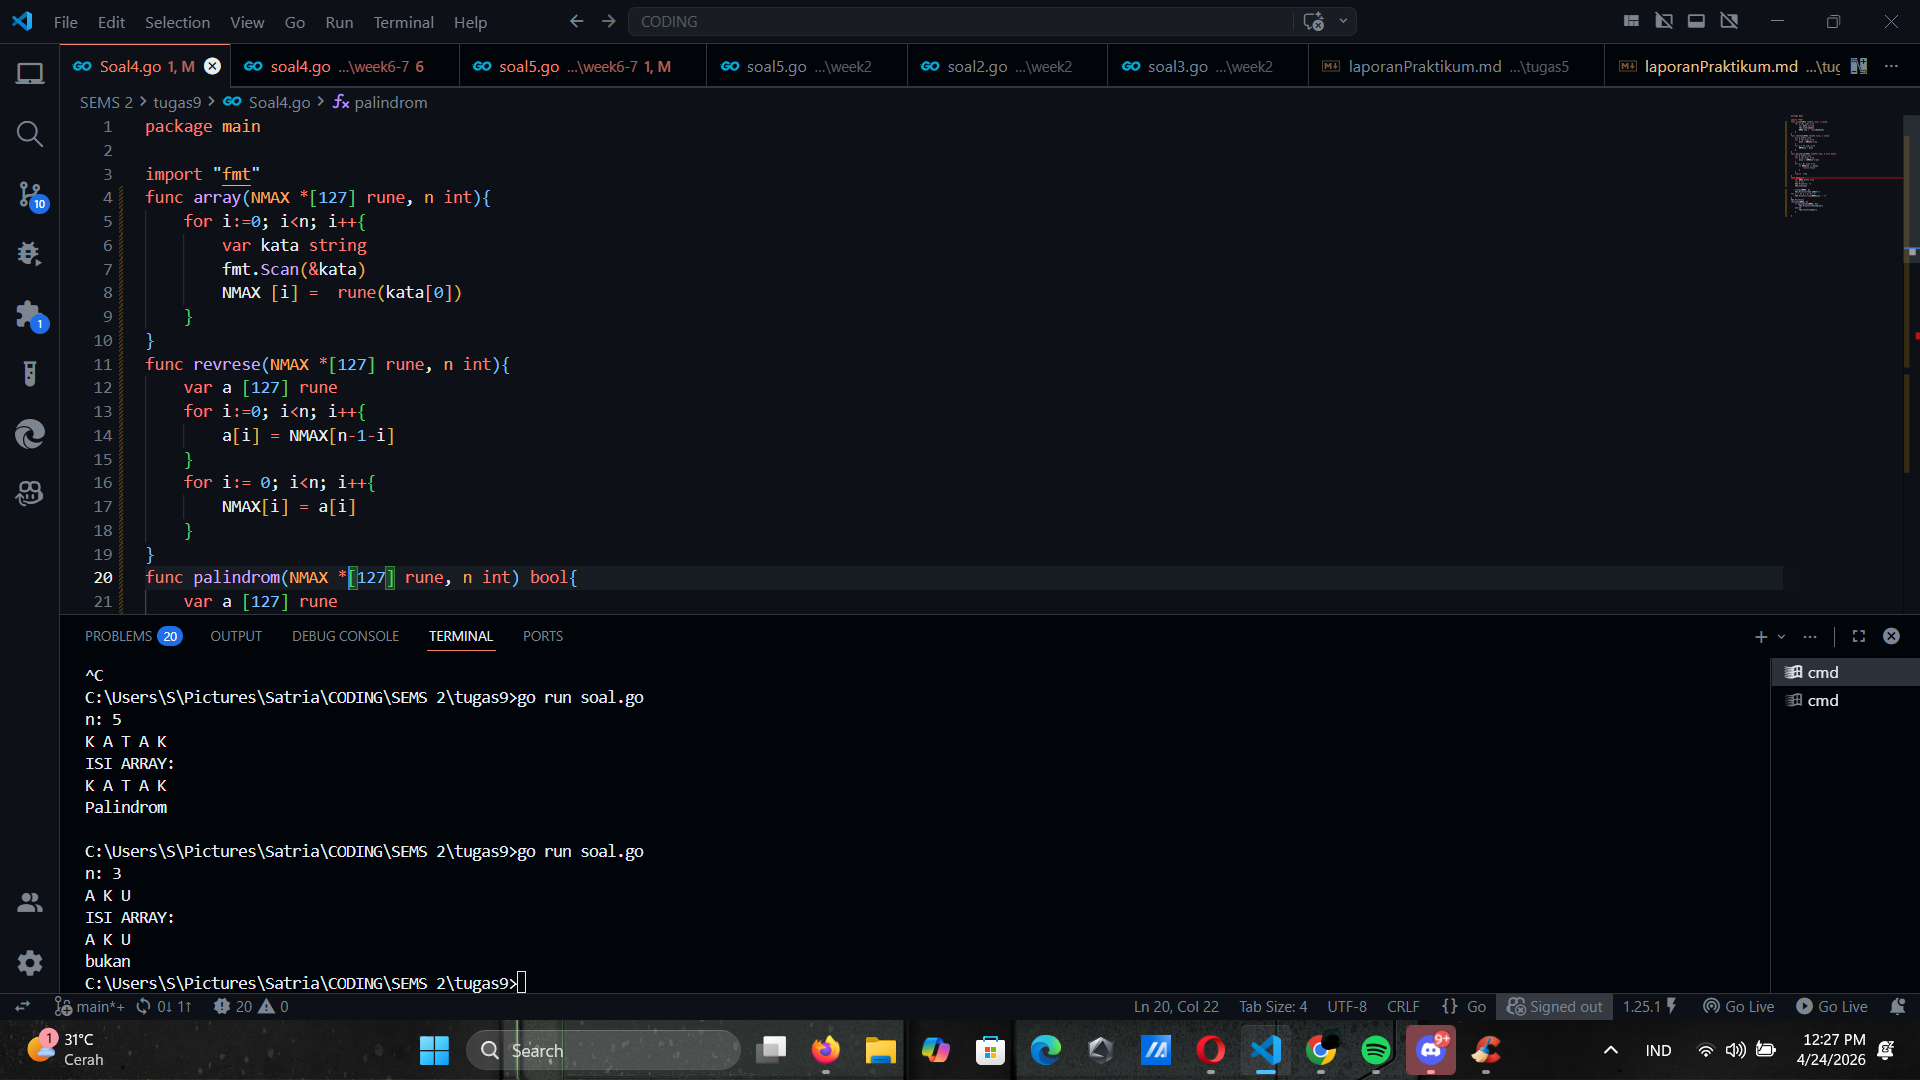
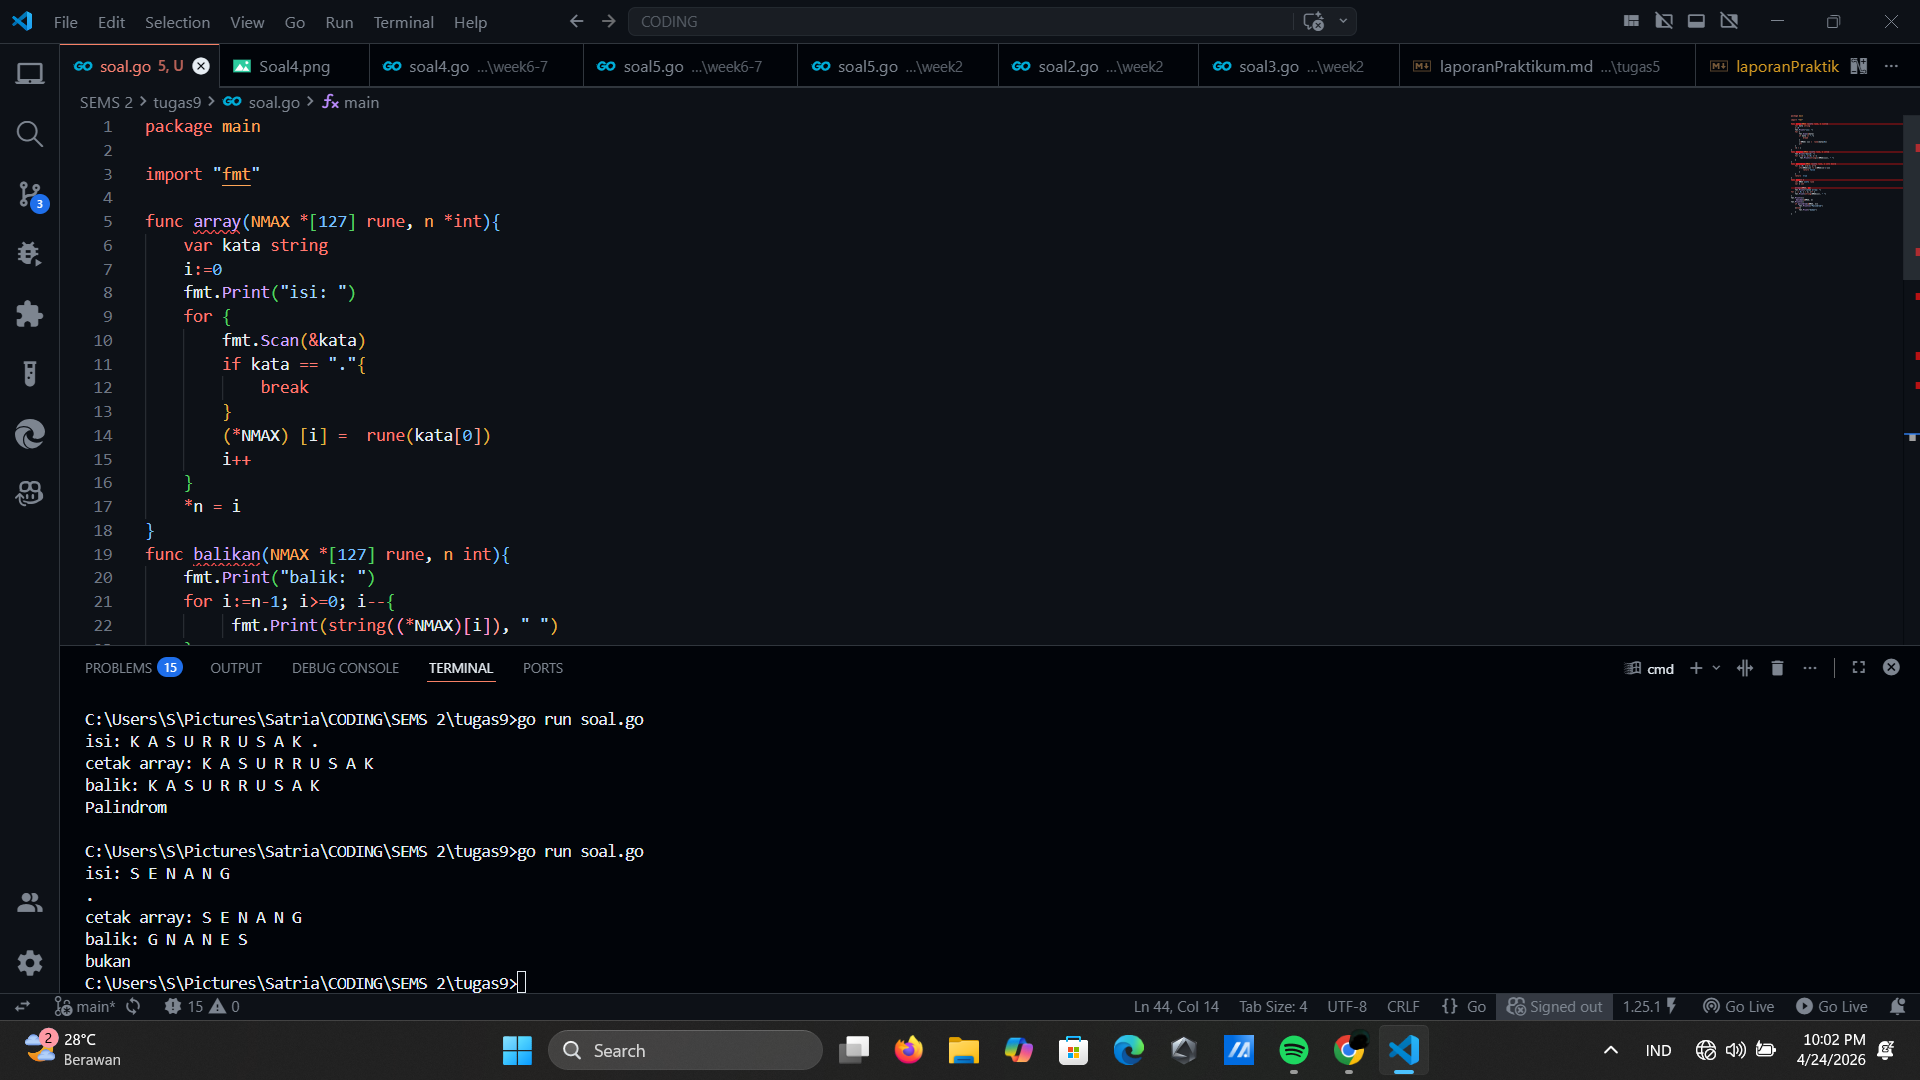
fix

diff --git a/tugas9/Soal4.go b/tugas9/Soal4.go
@@ -2,29 +2,29 @@ package main
 
 import "fmt"
 
-func array(NMAX *[127] rune, n int){
-	for i:=0; i<n; i++{
-		var kata string
+func array(NMAX *[127] rune, n *int){
+	var kata string
+	i:=0
+	fmt.Print("isi: ")
+	for {
 		fmt.Scan(&kata)
-		NMAX [i] =  rune(kata[0])
+		if kata == "."{
+			break
+		}
+		(*NMAX) [i] =  rune(kata[0])
+		i++
 	}
+	*n = i
 }
-func revrese(NMAX *[127] rune, n int){
-	var a [127] rune
-	for i:=0; i<n; i++{
-		a[i] = NMAX[n-1-i]
-	}
-	for i:= 0; i<n; i++{
-		NMAX[i] = a[i] 
+func balikan(NMAX *[127] rune, n int){
+	fmt.Print("balik: ")
+	for i:=n-1; i>=0; i--{
+		 fmt.Print(string((*NMAX)[i]), " ")
 	}
 }
 func palindrom(NMAX *[127] rune, n int) bool{
-	var a [127] rune
-	for i:=0; i<n; i++{
-		a[i] = (NMAX[n-1-i])
-	}
-	for i:= 0; i<n; i++{
-		if NMAX[i] != a[i]{
+	for i:=0; i<n/2; i++{
+		if(*NMAX)[i] != (*NMAX)[n-1-i]{
 			return false
 		}
 	}
@@ -33,20 +33,18 @@ func palindrom(NMAX *[127] rune, n int) bool{
 func main() {
 	var NMAX [127] rune
 	var n int
-	fmt.Print("n: ")
-	fmt.Scan(&n)
 
-	array(&NMAX, n)
-	fmt.Println("ISI ARRAY:")
+	array(&NMAX, &n)
+	fmt.Print("cetak array: ")
 for i := 0; i < n; i++ {
 	fmt.Print(string(NMAX[i]), " ")
 }
 fmt.Println()
-revrese(&NMAX, n)
+	 balikan(&NMAX, n)
+fmt.Println()
 	if palindrom(&NMAX, n){
 		fmt.Println("Palindrom")
 	}else{
 		fmt.Print("bukan")
 	}
-	
 }

diff --git a/tugas9/laporanPraktikum.md b/tugas9/laporanPraktikum.md
@@ -74,10 +74,27 @@ func main () {
 ##### Output 
 ![Screenshot Output Unguided 1_1](https://github.com/Fathicc-ux/109082530029-Fathi-satriani-al/blob/main/tugas9/output_tugas9/Soal1.png)
 [penjelasan]
-Program 
+Program ini untuk mengetahui posisi sebuah titik lingkaran apakah ada titi di dalam lingkaran 1 dan 2, titik di dalam lingkaran 1, titik di dalam lingkaran 2 atau titik diluar lingkaran 1 dan 2. Program ini menggunakan tipe data bentukan yang dimana di dalamnya menyimpan beberapa variabel dengan tipe data yang berbeda, program meminta input titik koordinat dan radius lingkaran 1 dan 2, dan titik sembarang. Lalu masuk ke fungsi jarak untuk menghitung jarak titik (a, b) dan (c, d) dengan rumus: 
+√((a − c)*(a − c)) + ((b − d)*(b − d)), lalu masuk ke fungsi dalam untuk mengecek apakah titik di dalam lingkaran 1 dan 2 atau diluar lingkaran 1 dan 2. Setelah itu masuk e fungsi main di if untuk menentukan apakah titik berada di dalam lingkaran 1 dan 2 atau diluar lingkaran 1 dan 2.
 
-### 2. [Pola bintang]
-Buatlah 
+### 2. [Array]
+Sebuah array digunakan untuk menampung sekumpulan bilangan bulat. Buatlah program
+yang digunakan untuk mengisi array tersebut sebanyak N elemen nilai. Asumsikan array
+memiliki kapasitas penyimpanan data sejumlah elemen tertentu. Program dapat
+menampilkan beberapa informasi berikut:
+a. Menampilkan keseluruhan isi dari array.
+b. Menampilkan elemen-elemen array dengan indeks ganjil saja.
+c. Menampilkan elemen-elemen array dengan indeks genap saja (asumsi indek ke-0 adalah
+genap).
+d. Menampilkan elemen-elemen array dengan indeks kelipatan bilangan x. x bisa diperoleh
+dari masukan pengguna.
+e. Menghapus elemen array pada indeks tertentu, asumsi indeks yang hapus selalu valid.
+Tampilkan keseluruhan isi dari arraynya, pastikan data yang dihapus tidak tampil
+f. Menampilkan rata-rata dari bilangan yang ada di dalam array.
+g. Menampilkan standar deviasi atau simpangan baku dari bilangan yang ada di dalam array
+tersebut.
+h. Menampilkan frekuensi dari suatu bilangan tertentu di dalam array yang telah diisi
+tersebut.
 #### Soal2.go
 
 ```go
@@ -204,11 +221,16 @@ func main () {
 ##### Output 
 ![Screenshot Output Unguided 1_1](https://github.com/Fathicc-ux/109082530029-Fathi-satriani-al/blob/main/tugas9/output_tugas9/Soal2.png)
 [penjelasan]
-Program 
+Sebuah program array digunakan untuk menampilkan beberapa infomasi seperti menampilkan seluruh isi array, index ganjil genap, kelipatan dengan input x, hapus index lalu tampilkan setelah dihapus, rata rata, standar deviasi, frekuensi. Disini saya menggunakan beberapa func prosedur untuk membuat program ini, setiap prosedur digunakan untuk menampilkan informasi diatas.
 
 
-### 3. [Mencari faktor dengan rekrusif]
-Buatlah 
+### 3. [Mencari pemenang pertandingan]
+Sebuah program digunakan untuk menyimpan dan menampilkan nama-nama klub yang
+memenangkan pertandingan bola pada suatu grup pertandingan. Buatlah program yang
+digunakan untuk merekap skor pertandingan bola 2 buah klub bola yang berlaga.
+Pertama-tama program meminta masukan nama-nama klub yang bertanding, kemudian
+program meminta masukan skor hasil pertandingan kedua klub tersebut. Yang disimpan
+dalam array adalah nama-nama klub yang menang saja. Proses input skor berhenti ketika skor salah satu atau kedua klub tidak valid (negatif). Di akhir program, tampilkan daftar klub yang memenangkan pertandingan. 
 #### Soal3.go
 
 ```go
@@ -258,11 +280,14 @@ func main(){
 ##### Output 
 ![Screenshot Output Unguided 1_1](https://github.com/Fathicc-ux/109082530029-Fathi-satriani-al/blob/main/tugas9/output_tugas9/Soal3.png)
 [penjelasan]
-Program
+Program digunakan untuk mencari pemenang pertandingan sepak bola, array dalam program ini digyunakan untuk menyimapn daftar pemenang lalu ditampilkan hasilnya. Program meminta input nama klub, dan jumlah gol dari setiap pertandingan, input akan berhenti ketika gol dari kedua tim ada yang kurang dari 0 (-). Program ini menggunakan percabangan untuk menentukan klub pemenang dari setiap pertandingan, lalu hasil klub pemenang akan di simpan dalam sebuah array dan ditampilkan di hasil akhir dari setiap pertandingan.
 
 
-### 4. [Mencari faktor dengan rekrusif]
-Buatlah 
+### 4. [Palindrom]
+Sebuah array digunakan untuk menampung sekumpulan karakter, Anda diminta untuk
+membuat sebuah subprogram untuk melakukan membalikkan urutan isi array dan memeriksa
+apakah membentuk palindrom. Modifikasi program tersebut dengan menambahkan fungsi palindrom. Tambahkan instruksi
+untuk memanggil fungsi tersebut dan menampilkan hasilnya pada program utama. 
 #### Soal4.go
 
 ```go
@@ -270,29 +295,29 @@ package main
 
 import "fmt"
 
-func array(NMAX *[127] rune, n int){
-	for i:=0; i<n; i++{
-		var kata string
+func array(NMAX *[127] rune, n *int){
+	var kata string
+	i:=0
+	fmt.Print("isi: ")
+	for {
 		fmt.Scan(&kata)
-		NMAX [i] =  rune(kata[0])
+		if kata == "."{
+			break
+		}
+		(*NMAX) [i] =  rune(kata[0])
+		i++
 	}
+	*n = i
 }
-func revrese(NMAX *[127] rune, n int){
-	var a [127] rune
-	for i:=0; i<n; i++{
-		a[i] = NMAX[n-1-i]
-	}
-	for i:= 0; i<n; i++{
-		NMAX[i] = a[i] 
+func balikan(NMAX *[127] rune, n int){
+	fmt.Print("balik: ")
+	for i:=n-1; i>=0; i--{
+		 fmt.Print(string((*NMAX)[i]), " ")
 	}
 }
 func palindrom(NMAX *[127] rune, n int) bool{
-	var a [127] rune
-	for i:=0; i<n; i++{
-		a[i] = (NMAX[n-1-i])
-	}
-	for i:= 0; i<n; i++{
-		if NMAX[i] != a[i]{
+	for i:=0; i<n/2; i++{
+		if(*NMAX)[i] != (*NMAX)[n-1-i]{
 			return false
 		}
 	}
@@ -301,16 +326,15 @@ func palindrom(NMAX *[127] rune, n int) bool{
 func main() {
 	var NMAX [127] rune
 	var n int
-	fmt.Print("n: ")
-	fmt.Scan(&n)
 
-	array(&NMAX, n)
-	fmt.Println("ISI ARRAY:")
+	array(&NMAX, &n)
+	fmt.Print("cetak array: ")
 for i := 0; i < n; i++ {
 	fmt.Print(string(NMAX[i]), " ")
 }
 fmt.Println()
-revrese(&NMAX, n)
+	 balikan(&NMAX, n)
+fmt.Println()
 	if palindrom(&NMAX, n){
 		fmt.Println("Palindrom")
 	}else{
@@ -324,4 +348,4 @@ revrese(&NMAX, n)
 ##### Output 
 ![Screenshot Output Unguided 1_1](https://github.com/Fathicc-ux/109082530029-Fathi-satriani-al/blob/main/tugas9/output_tugas9/Soal4.png)
 [penjelasan]
-Program 
+Sebuah array digunakan untuk menampung sekumpulan karakter, Program diminta input sebanyak banyak nya karakter dan akan berhenti saat input '.' kemudian program mencetak input tersebut. Fungsi array digunakan untuk input, lalu mencetaknya di fungsi main setelah itu fungsi balikan digunakan untuk membalikan hasil cetak. Lalu gunakan fungsi palindrom apakah karakter yag diceak dengan yang dibalik hasilnya tetap sama, jika sama maka dianggap palindrom dan kalau beda bukan.
